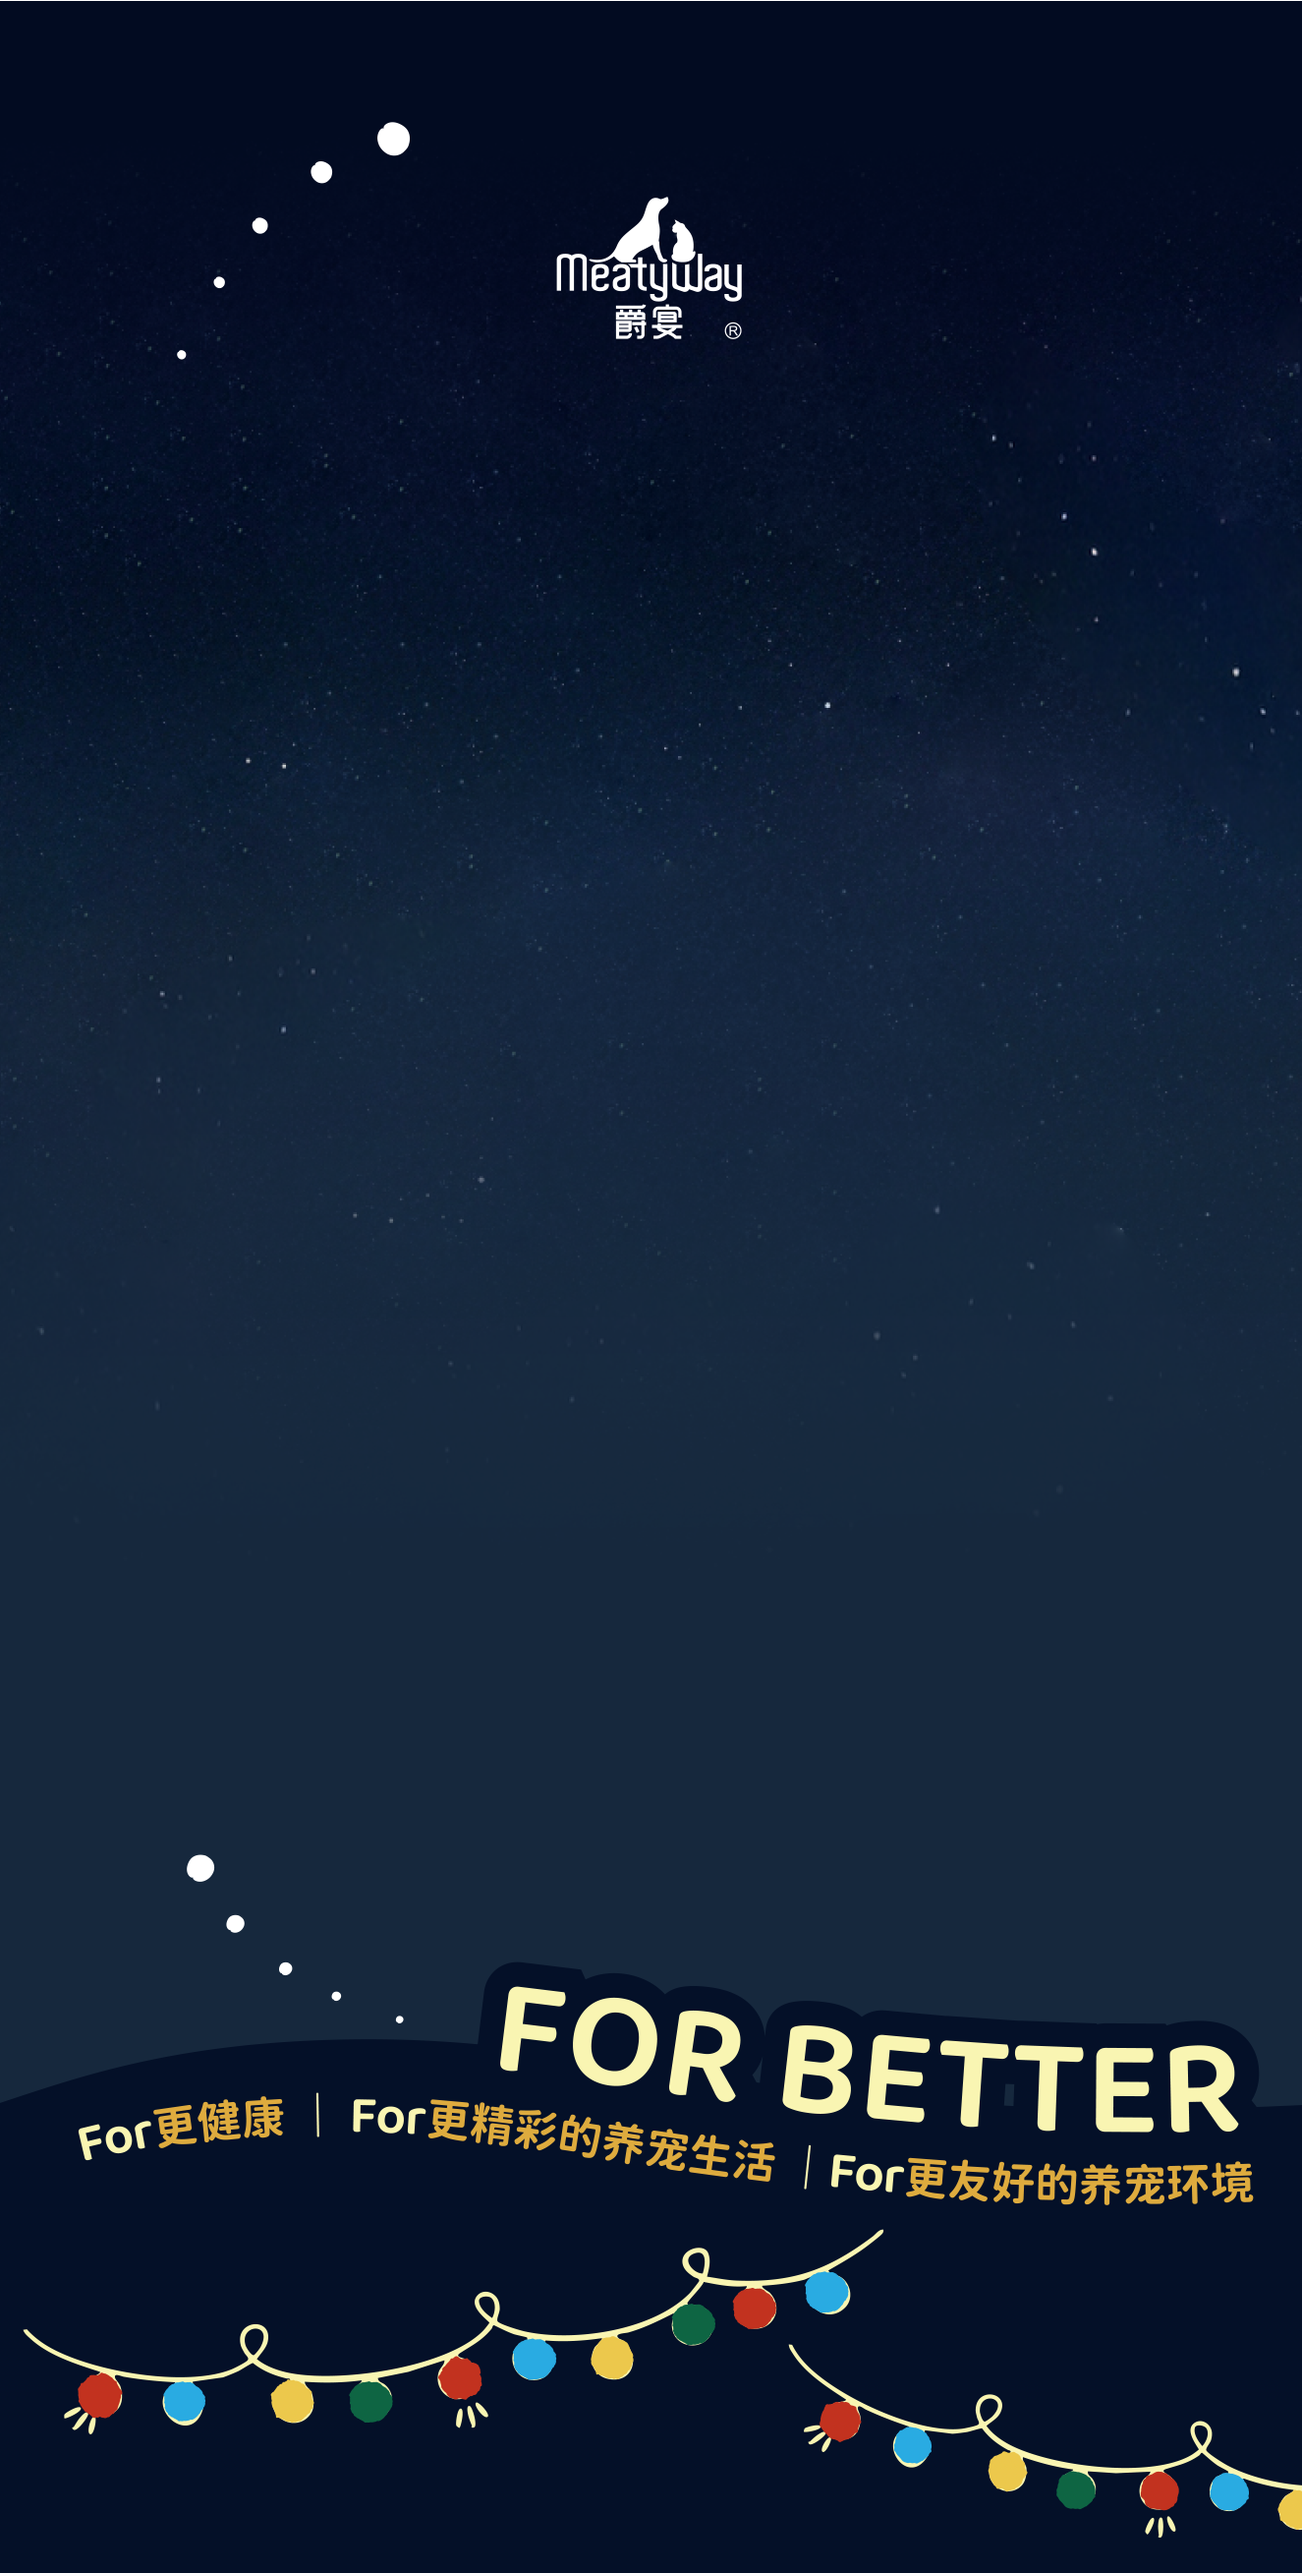
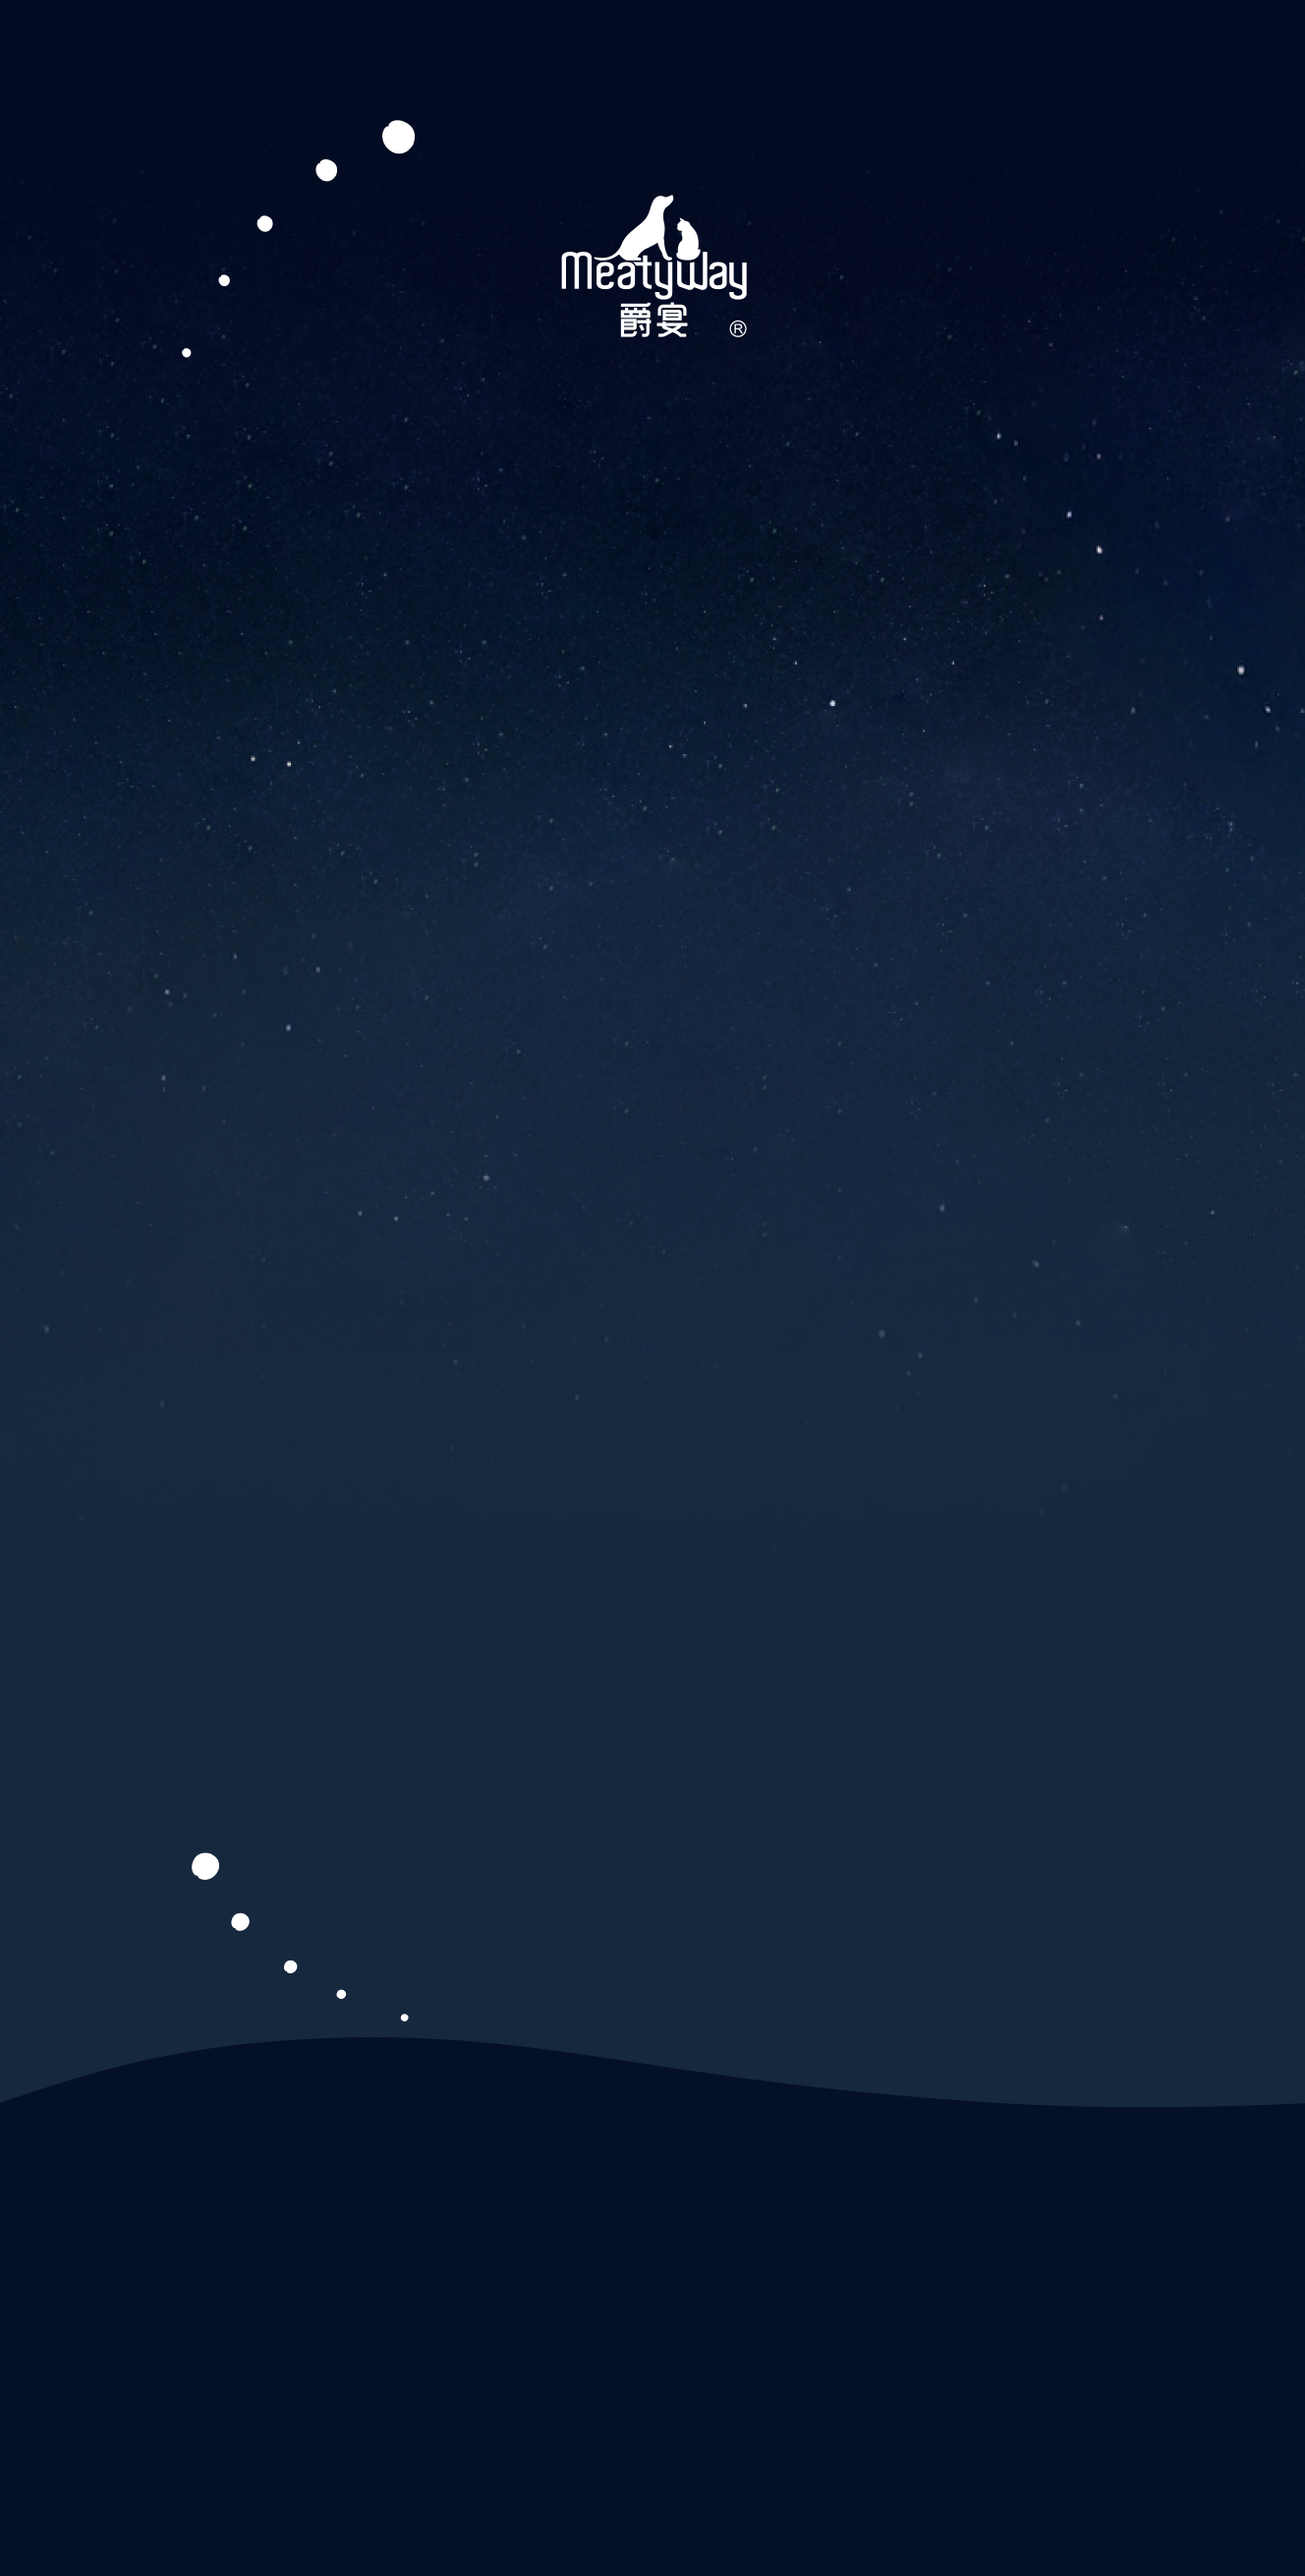
feat: 优化样式

diff --git a/Peidi-Christmas/index.html b/Peidi-Christmas/index.html
@@ -162,8 +162,12 @@
             <img class="po" src="img/page2-tree.png" />
           </div>
 
-          <div class="page2_txt">
-            <img src="img/page2-txt2.png" />
+          <div class="page2_txt1">
+            <img src="img/page2-txt3.png" />
+          </div>
+
+          <div class="page2_txt2">
+            <img src="img/page2-txt4.png" />
           </div>
 
           <div class="page2_butt-container">
@@ -273,11 +277,12 @@
     <div class="mask">
       <div class="page_snow mask_snow"></div>
       <img class="mark_start1" src="img/mark-star1.png" />
-      <img class="mark_card" src="img/mark-card.png" />
+      <!-- <img class="mark_card1" src="img/mark-card1.png" /> -->
 
       <div class="mark_form">
         <!-- <img class="mark_form-img" src="img/MeatWay.webp" /> -->
-        <form action="" method="post">
+        <img class="mark_card2" src="img/mark-card2.png" />
+        <form class="mark_form_content" action="" method="post">
           <div class="mark_form_item">
             <div class="mark_form_tit">
               <img src="img/form-name.png" style="width: 35%" /><span></span>
@@ -303,6 +308,9 @@
           </a>
         </form>
       </div>
+
+      <!-- <img class="mark_txt1" src="img/mark-txt1.png" /> -->
+      <img class="mark_txt2" src="img/mark-txt2.png" />
     </div>
     <!-- #endregion -->
   </body>

diff --git a/Peidi-Christmas/css/index.css b/Peidi-Christmas/css/index.css
@@ -507,7 +507,7 @@ img {
   margin: 0 auto; */
   margin-left: 29%;
 }
-.page2_txt {
+.page2_txt1 {
   width: 100%;
   position: absolute;
   top: 0;
@@ -516,6 +516,12 @@ img {
   flex-direction: column;
   justify-content: center;
   align-items: center; */
+}
+.page2_txt2 {
+  width: 100%;
+  position: absolute;
+  top: 74%;
+  left: 0;
 }
 .page2_danmu {
   width: 100%;
@@ -626,7 +632,6 @@ img {
   font-size: 0.85rem;
   font-weight: 700;
   text-align: center;
-
 }
 /* #endregion */
 
@@ -883,21 +888,42 @@ img {
   -webkit-transform-origin: 50% 2%;
   transform-origin: 50% 2%;
 }
-.mark_card {
+.mark_card1 {
   width: 100%;
   position: absolute;
   top: 0;
-  right: 0;
+  left: 0;
+}
+.mark_card2 {
+  float: left;
+}
+.mark_txt1 {
+  width: 100%;
+  position: absolute;
+  top: 0;
+  left: 0;
+}
+.mark_txt2 {
+  width: 100%;
+  position: absolute;
+  top: 74%;
+  left: 0;
 }
 .mask .mark_form {
   width: 100%;
   position: absolute;
-  top: 35%;
+  top: 16%;
+  height: auto;
 }
 .mark_form-img {
   width: 35%;
   margin: 0 auto;
   margin-bottom: 20px;
+}
+.mark_form_content {
+  position: absolute;
+  top: 35%;
+  left: 0;
 }
 .mark_form .mark_form_item {
   width: 58%;

diff --git a/Peidi-Christmas/js/index.js b/Peidi-Christmas/js/index.js
@@ -495,12 +495,12 @@ $(function () {
     //#region 场景2 弹幕逻辑 page2_danmu
     // 需要添加的样式
     const danmu_styles = {
-      color: '#ff6b6b',
+      color: '#ffffffc5',
       fontSize: '14px',
-      backgroundColor: 'rgba(0, 0, 0, 0.5)',
+      backgroundColor: 'rgba(0, 0, 0, 0.3)',
       padding: '6px 12px',
       borderRadius: '20px',
-      border: '2px solid #ff6b6b',
+      border: '2px solid #ffffff50',
       textShadow: '1px 1px 2px rgba(0, 0, 0, 0.3)',
       fontWeight: 'bold',
       boxShadow: '0 3px 10px rgba(0, 0, 0, 0.2)',
@@ -560,6 +560,7 @@ $(function () {
 
       isProcessing = true;
       $(this).addClass('anjian');
+      // $('.mark_form').height($('.mark_card').height());
       setTimeout(function () {
         $('.page2').removeClass('anjian');
         $('.mask').fadeIn();
